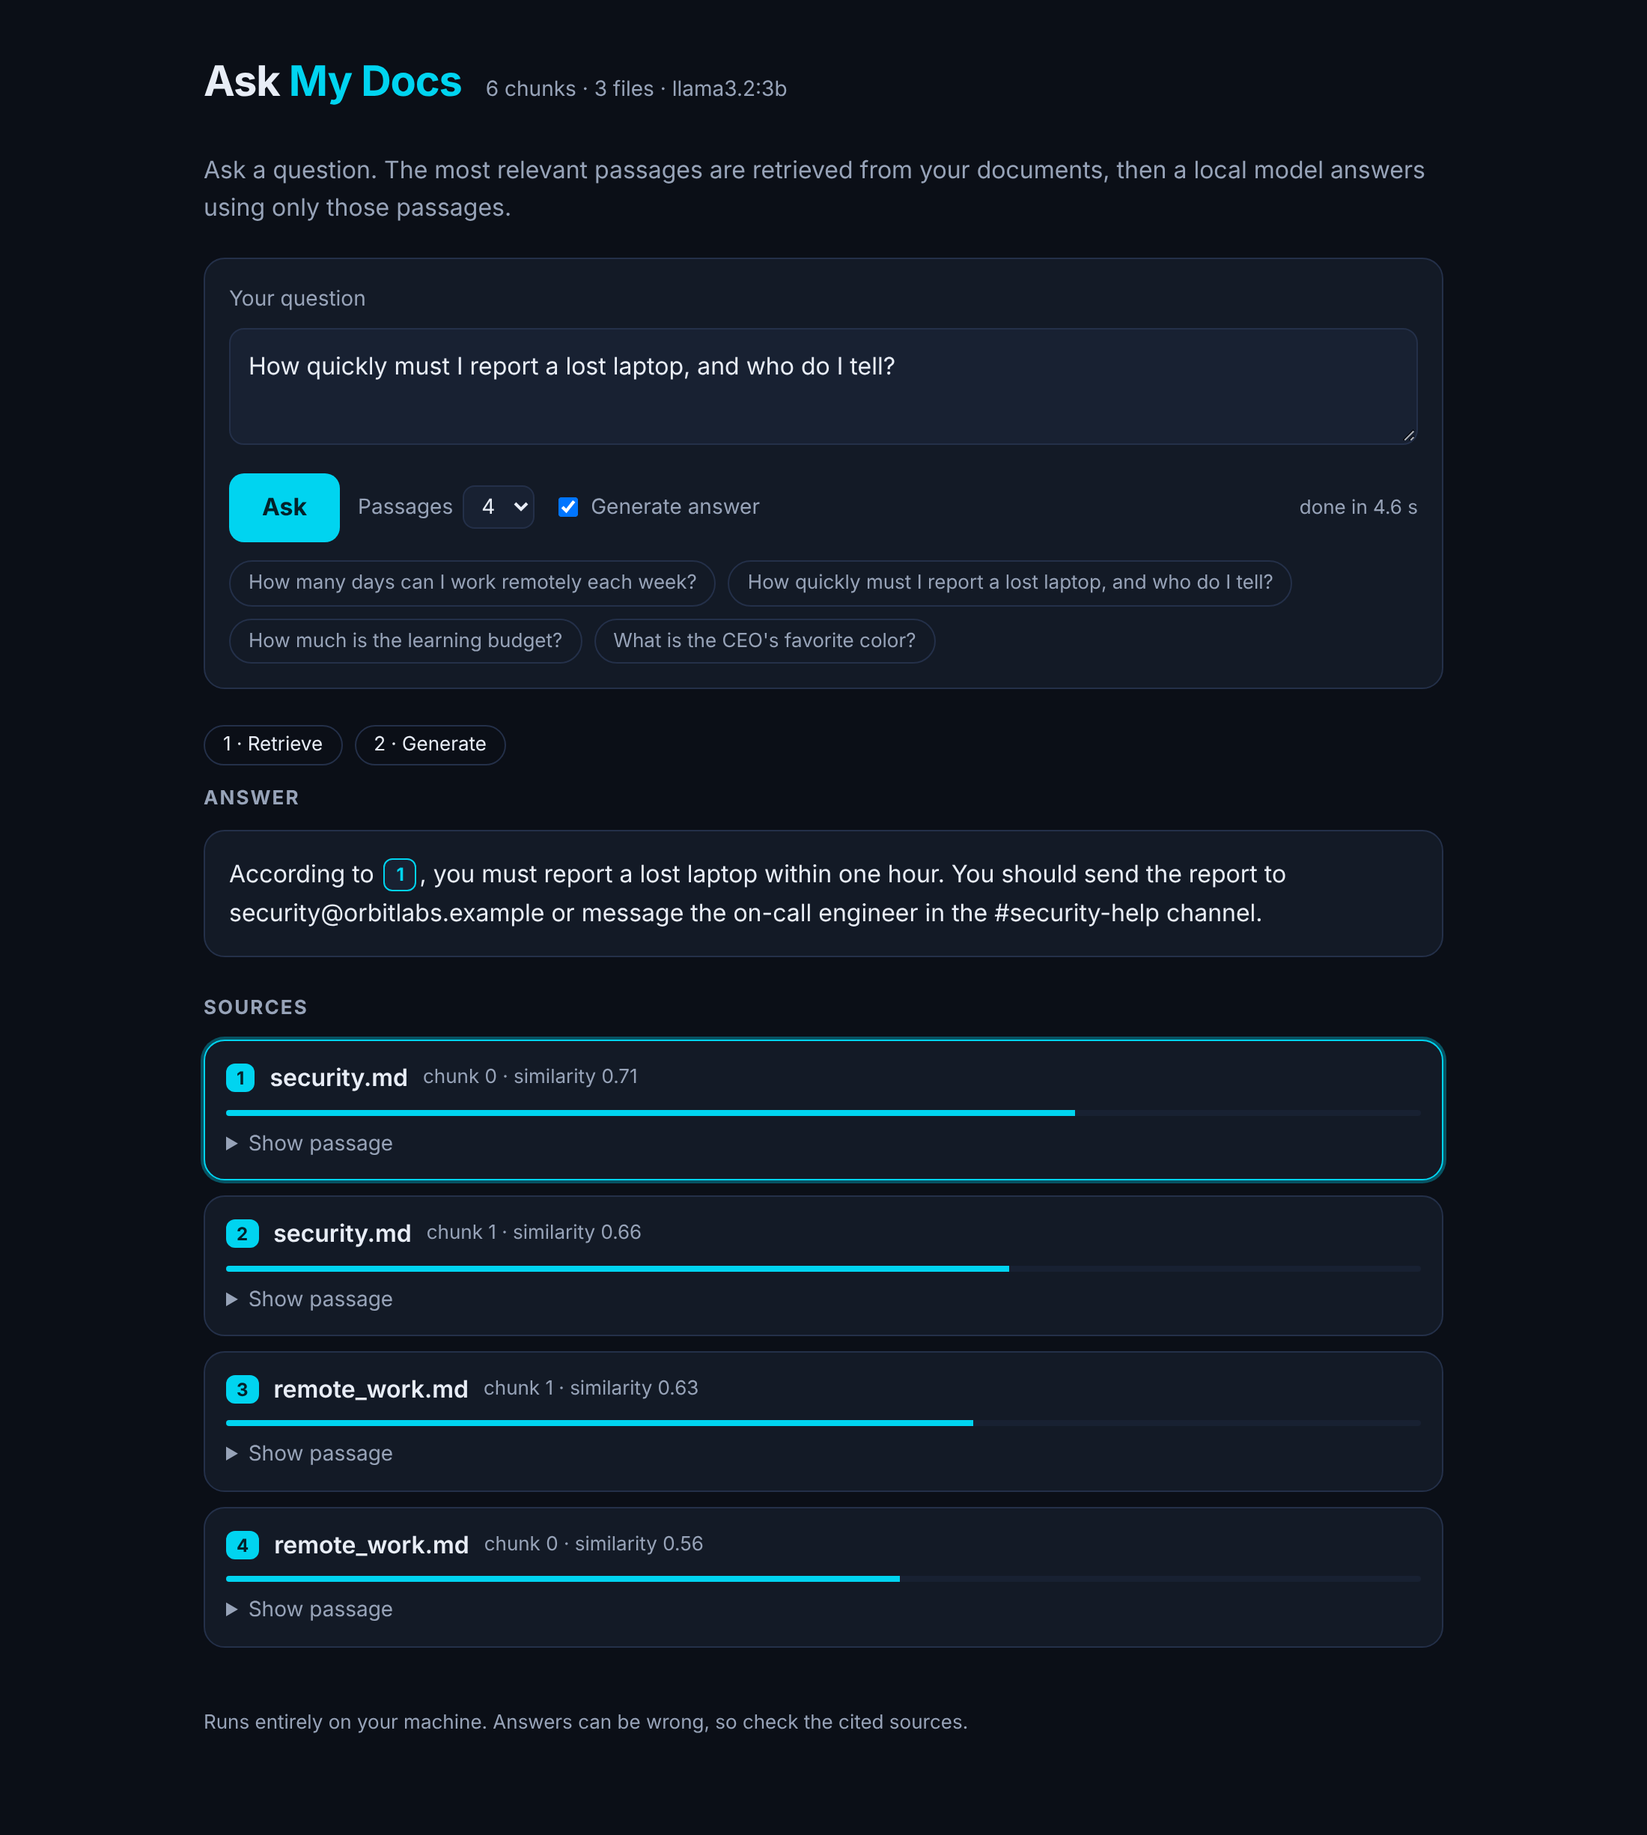
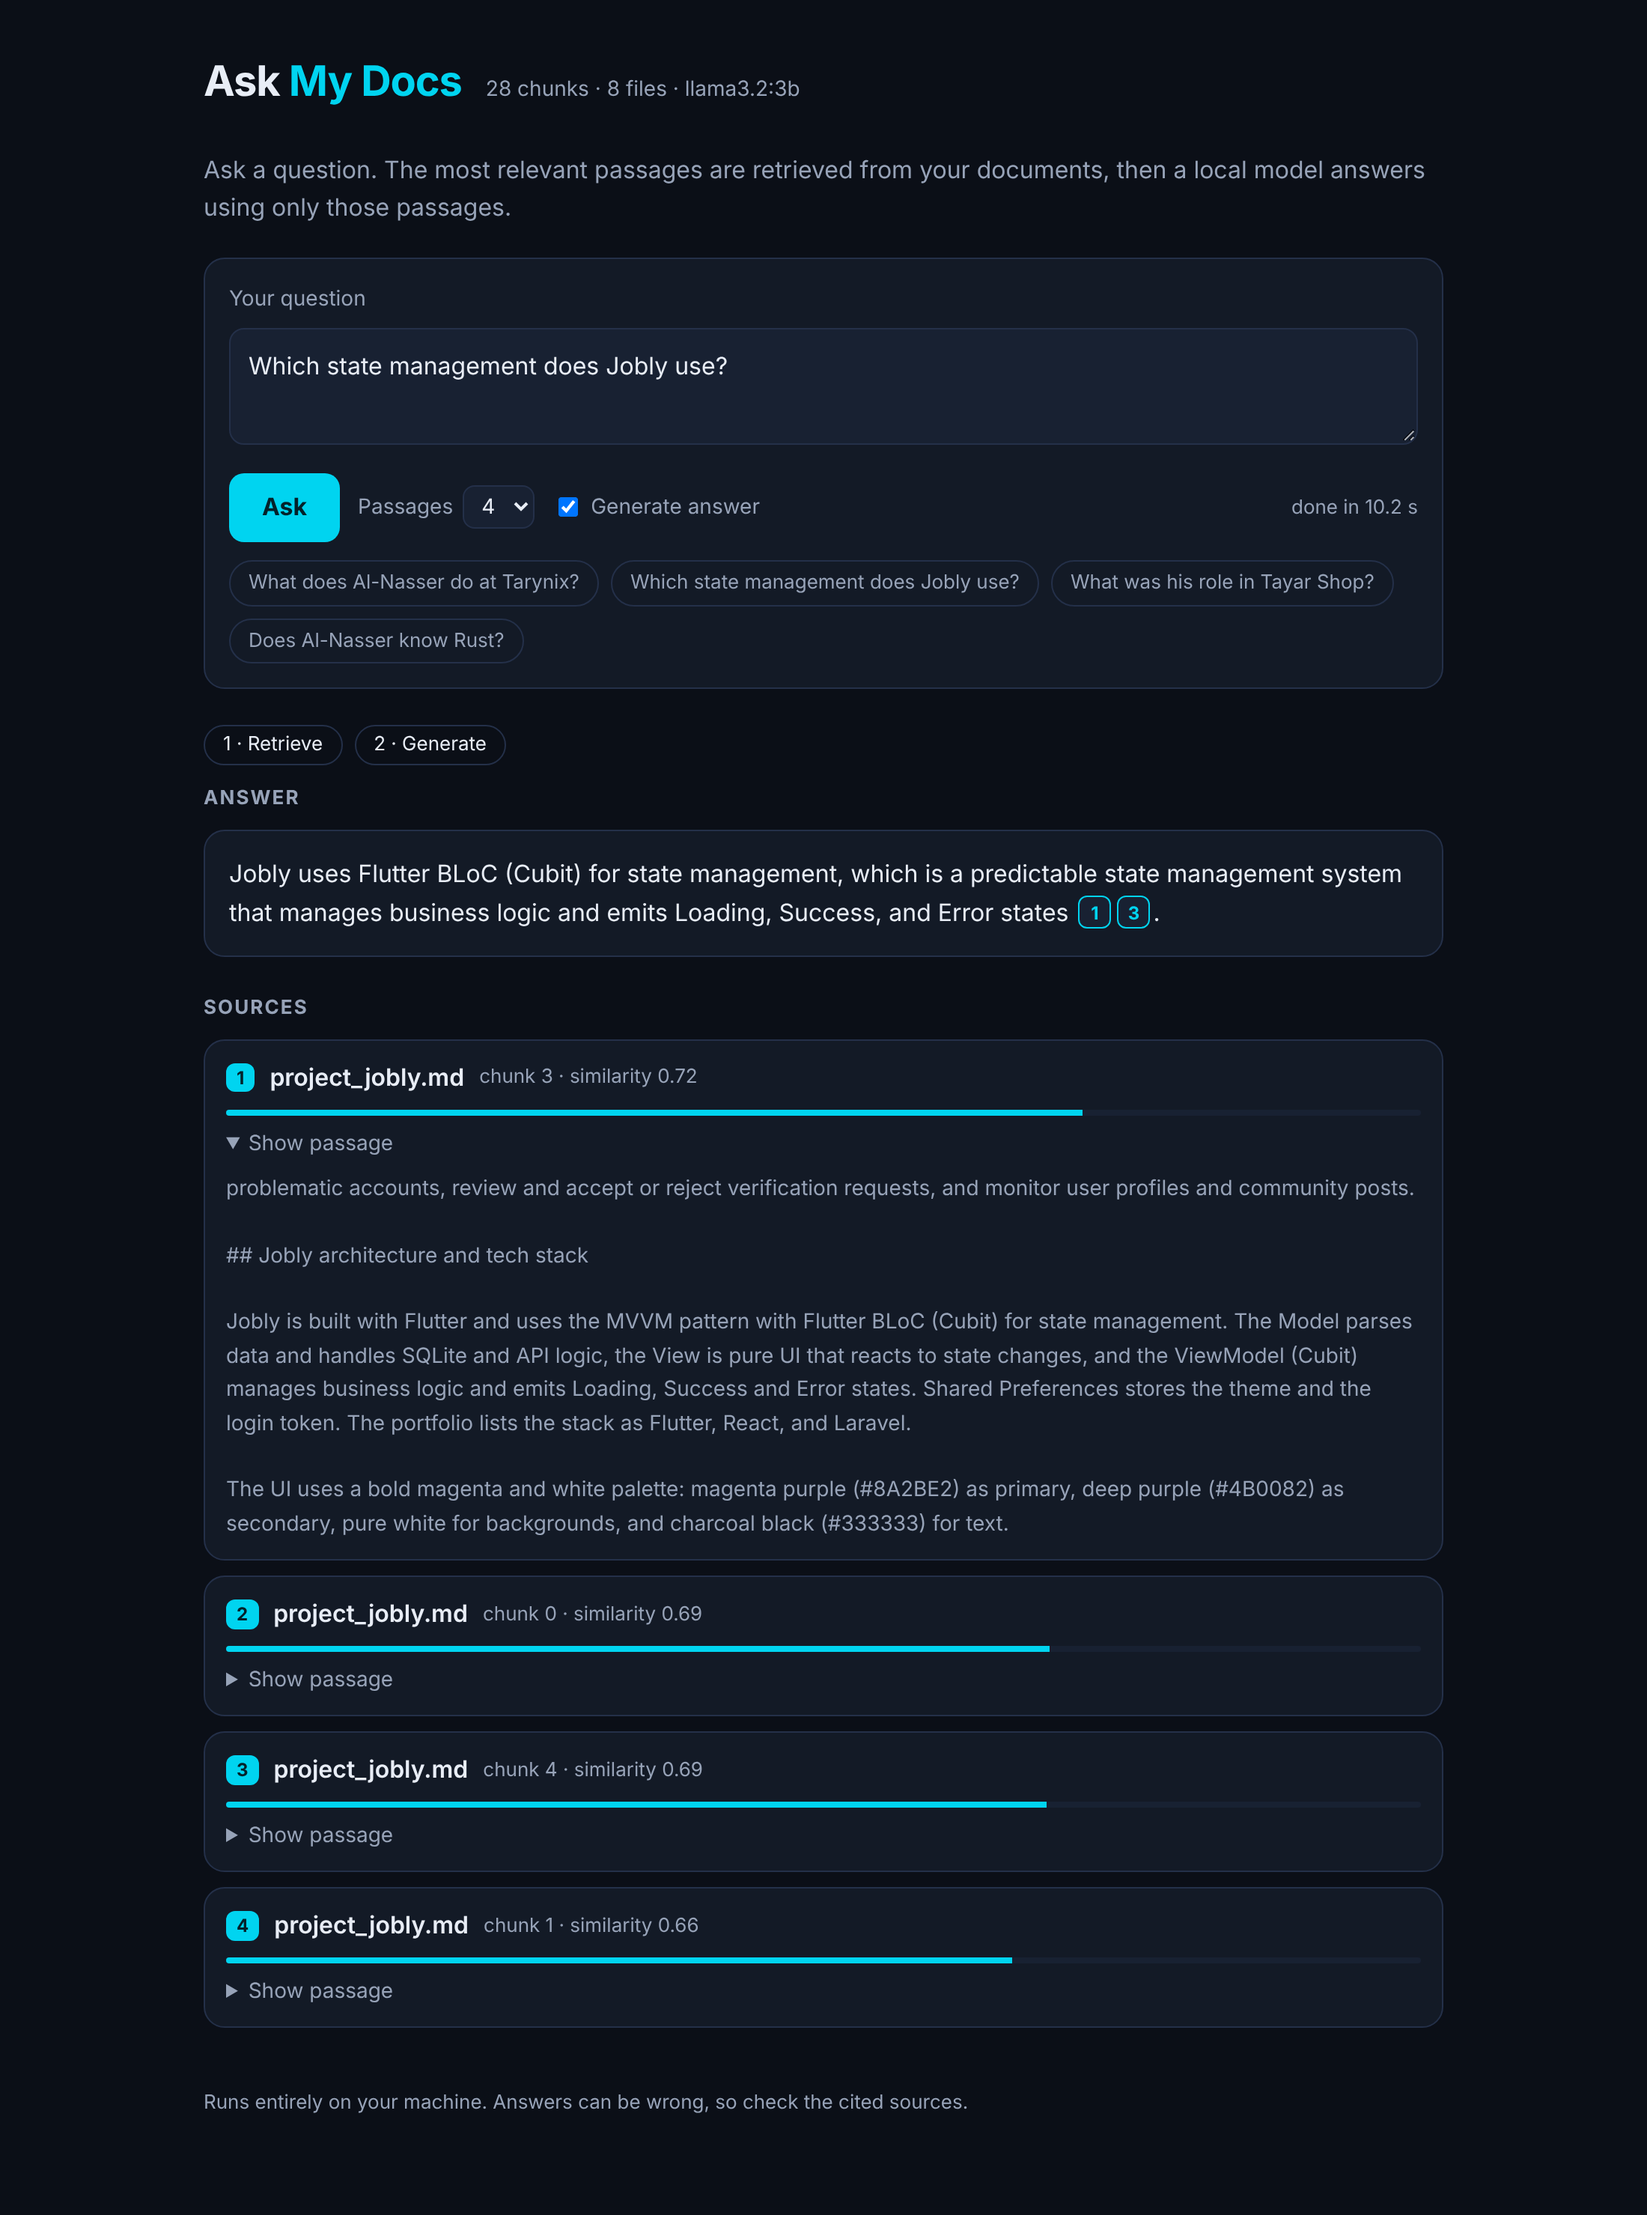
Update README and screenshot for the portfolio demo corpus
- Example outputs re-recorded with the current prompt
- New sections: portfolio demo corpus, and lessons from testing a small model
- Screenshot now shows the portfolio demo
- Honest note that the check question sets are not yet in the repo

Claude-Session: https://claude.ai/code/session_018Qb9dyhXXZaMZf9N7uRzyg

diff --git a/README.md b/README.md
@@ -10,8 +10,8 @@ with the passages it used shown as sources. Everything runs on your machine with
 ```
 $ python -m ask_my_docs ask "How quickly must I report a lost laptop, and who do I tell?"
 Answer:
-According to [1], you must report a lost laptop within one hour. You should send the
-report to security@orbitlabs.example or message the on-call engineer in #security-help.
+You must report a lost laptop within one hour, and you should send the report to
+security@orbitlabs.example or message the on-call engineer in the #security-help channel. [1]
 
 Sources:
   [1] security.md (chunk 0, score 0.71)
@@ -22,8 +22,12 @@ If the documents do not contain the answer, it says so instead of guessing:
 
 ```
 $ python -m ask_my_docs ask "What is the CEO's favorite color?"
-I don't know based on the provided documents.
+I don't know based on the provided documents. There is no mention of the CEO's favorite
+color in any of the passages.
 ```
+
+(Outputs above are from `llama3.2:3b` on the bundled `sample_docs`. The screenshot uses
+the portfolio demo corpus described below.)
 
 ## How it works
 
@@ -80,6 +84,39 @@ Citation badges in the answer jump to the matching source, and each source has a
 similarity bar and an expandable passage. It binds to `127.0.0.1` by default and has no
 login, so keep it local; do not expose it to a network as-is.
 
+## Demo corpus: ask about the author's portfolio
+
+`portfolio_docs/` holds documents about the author, Al-Nasser Haddad, written from his
+public portfolio and the public README files of his GitHub projects. Index it to get an
+"ask about my work" assistant:
+
+```bash
+python -m ask_my_docs ingest portfolio_docs
+python -m ask_my_docs serve
+```
+
+Try: "What does Al-Nasser do at Tarynix?", "Which state management does Jobly use?", or
+"Does Al-Nasser know Rust?" (not in the documents, so it should say it doesn't know).
+
+## What testing a small model taught me
+
+The default 3B model is free and private, but it needs a careful prompt:
+
+- **Retrieval was never the problem.** On a 14-question check over the portfolio
+  documents, the right passage was always in the top 4. Adding each document's title to
+  the text that is embedded improved the ranking, because a chunk from the middle of a
+  document often never names the project it is about.
+- **The prompt was.** The first prompt sometimes got a bare `[1]` as the whole answer, or
+  the model copied the passage labels back. Explicit rules ("never reply with only a
+  citation"), a different label format, and the instruction placed after the question
+  raised a 12-question answer check from 7 to 12 correct.
+- **Chunking matters.** Splitting long bulleted text at arbitrary characters produced
+  orphan fragments that lost the project name. Splitting at line breaks and sentence
+  ends fixed that.
+- **Some weaknesses remain.** Reading the answers, not just scoring them, showed
+  occasional small inventions and incomplete lists (for example, naming two of three
+  courses). A larger local model or a hosted one (see Configuration) is the fix.
+
 ## Configuration
 
 All settings are environment variables; the defaults target local Ollama.
@@ -111,7 +148,8 @@ ask_my_docs/
   cli.py          `ingest`, `ask` and `serve` commands
   web.py          FastAPI app: status + streaming ask endpoint
   static/         single-page frontend (plain HTML/CSS/JS, no build step)
-sample_docs/      fictional company handbook used for the demo
+sample_docs/      fictional company handbook (generic demo and tests)
+portfolio_docs/   documents about the author, built from public portfolio data
 tests/            unit tests: chunking, search, persistence, prompts, web API (no Ollama needed)
 ```
 
@@ -134,5 +172,7 @@ Run the tests with `pip install -r requirements-dev.txt && pytest`.
 - Only `.md` and `.txt` files; no PDF or HTML loading yet.
 - Pure vector search; adding keyword search (BM25) and a reranker would help with
   exact terms such as names and numbers.
-- Small local models answer slowly on CPU and can miss details in long contexts.
-- No automated retrieval-quality evaluation yet.
+- Small local models answer slowly on CPU (about 5 to 15 seconds here) and can miss
+  details, so check the cited sources.
+- The question sets used for the checks above are not in the repo yet; an `evaluate`
+  command with a fixed question file would make the results reproducible.
